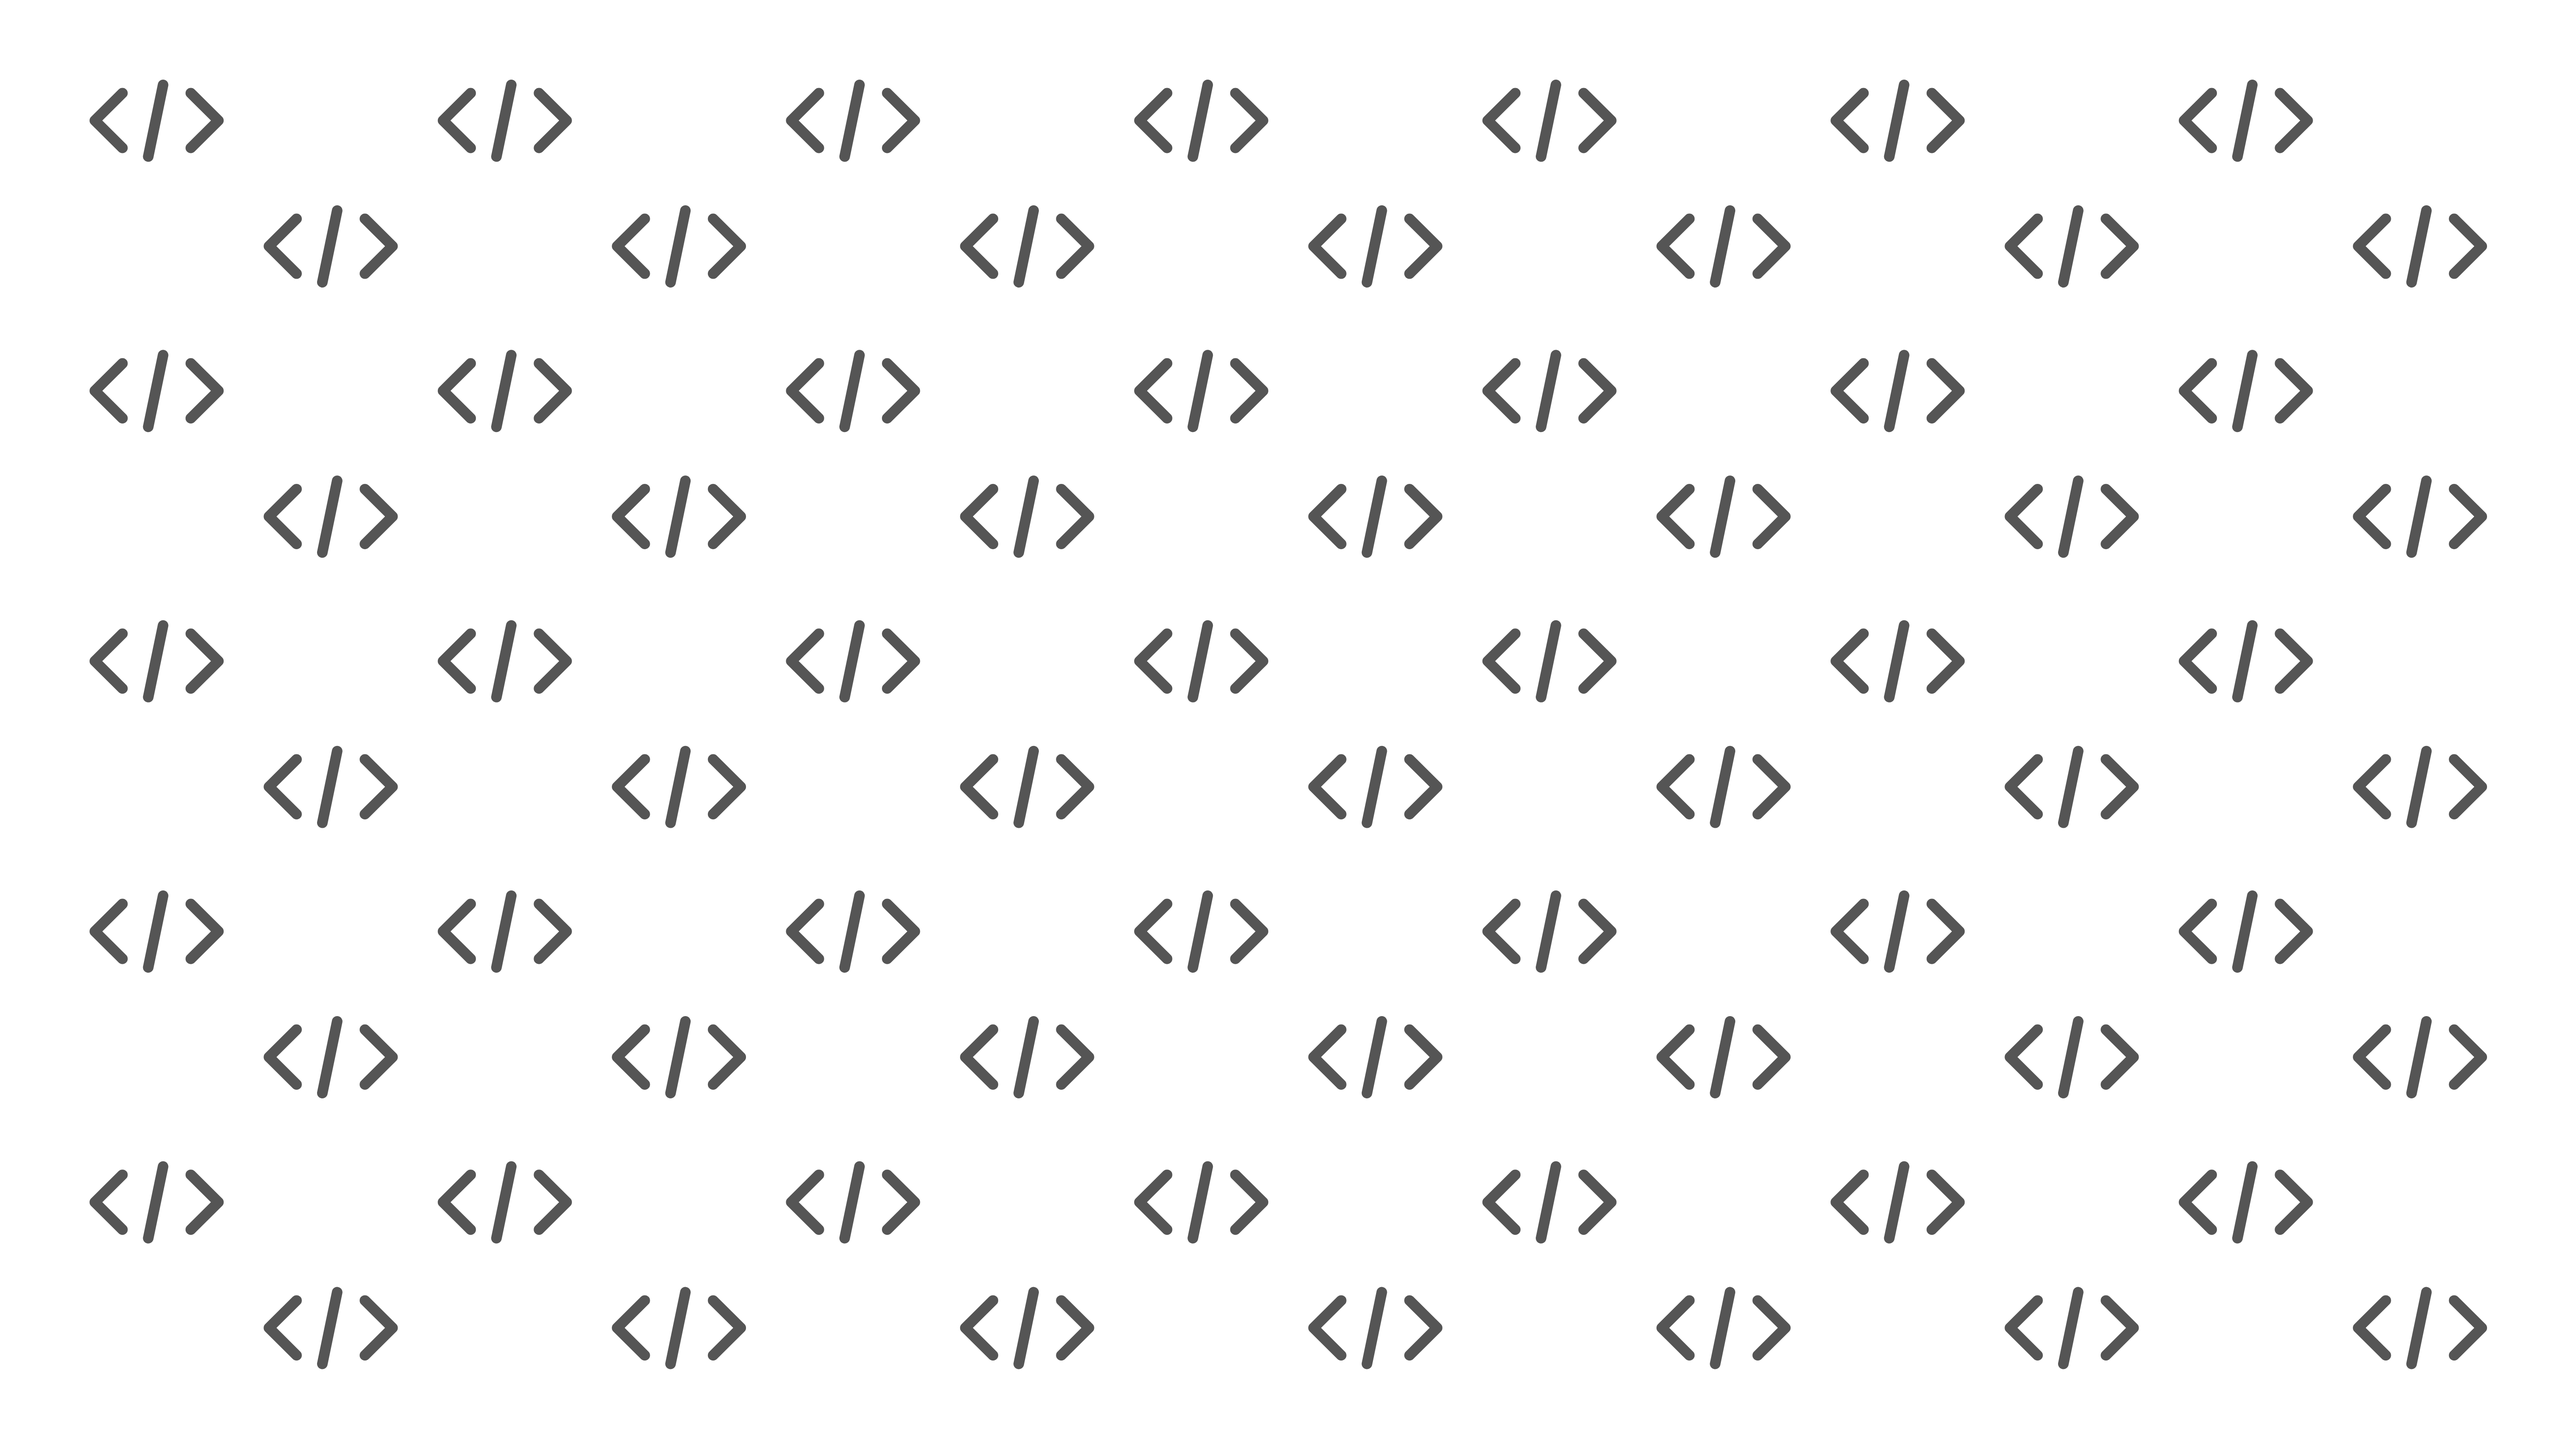
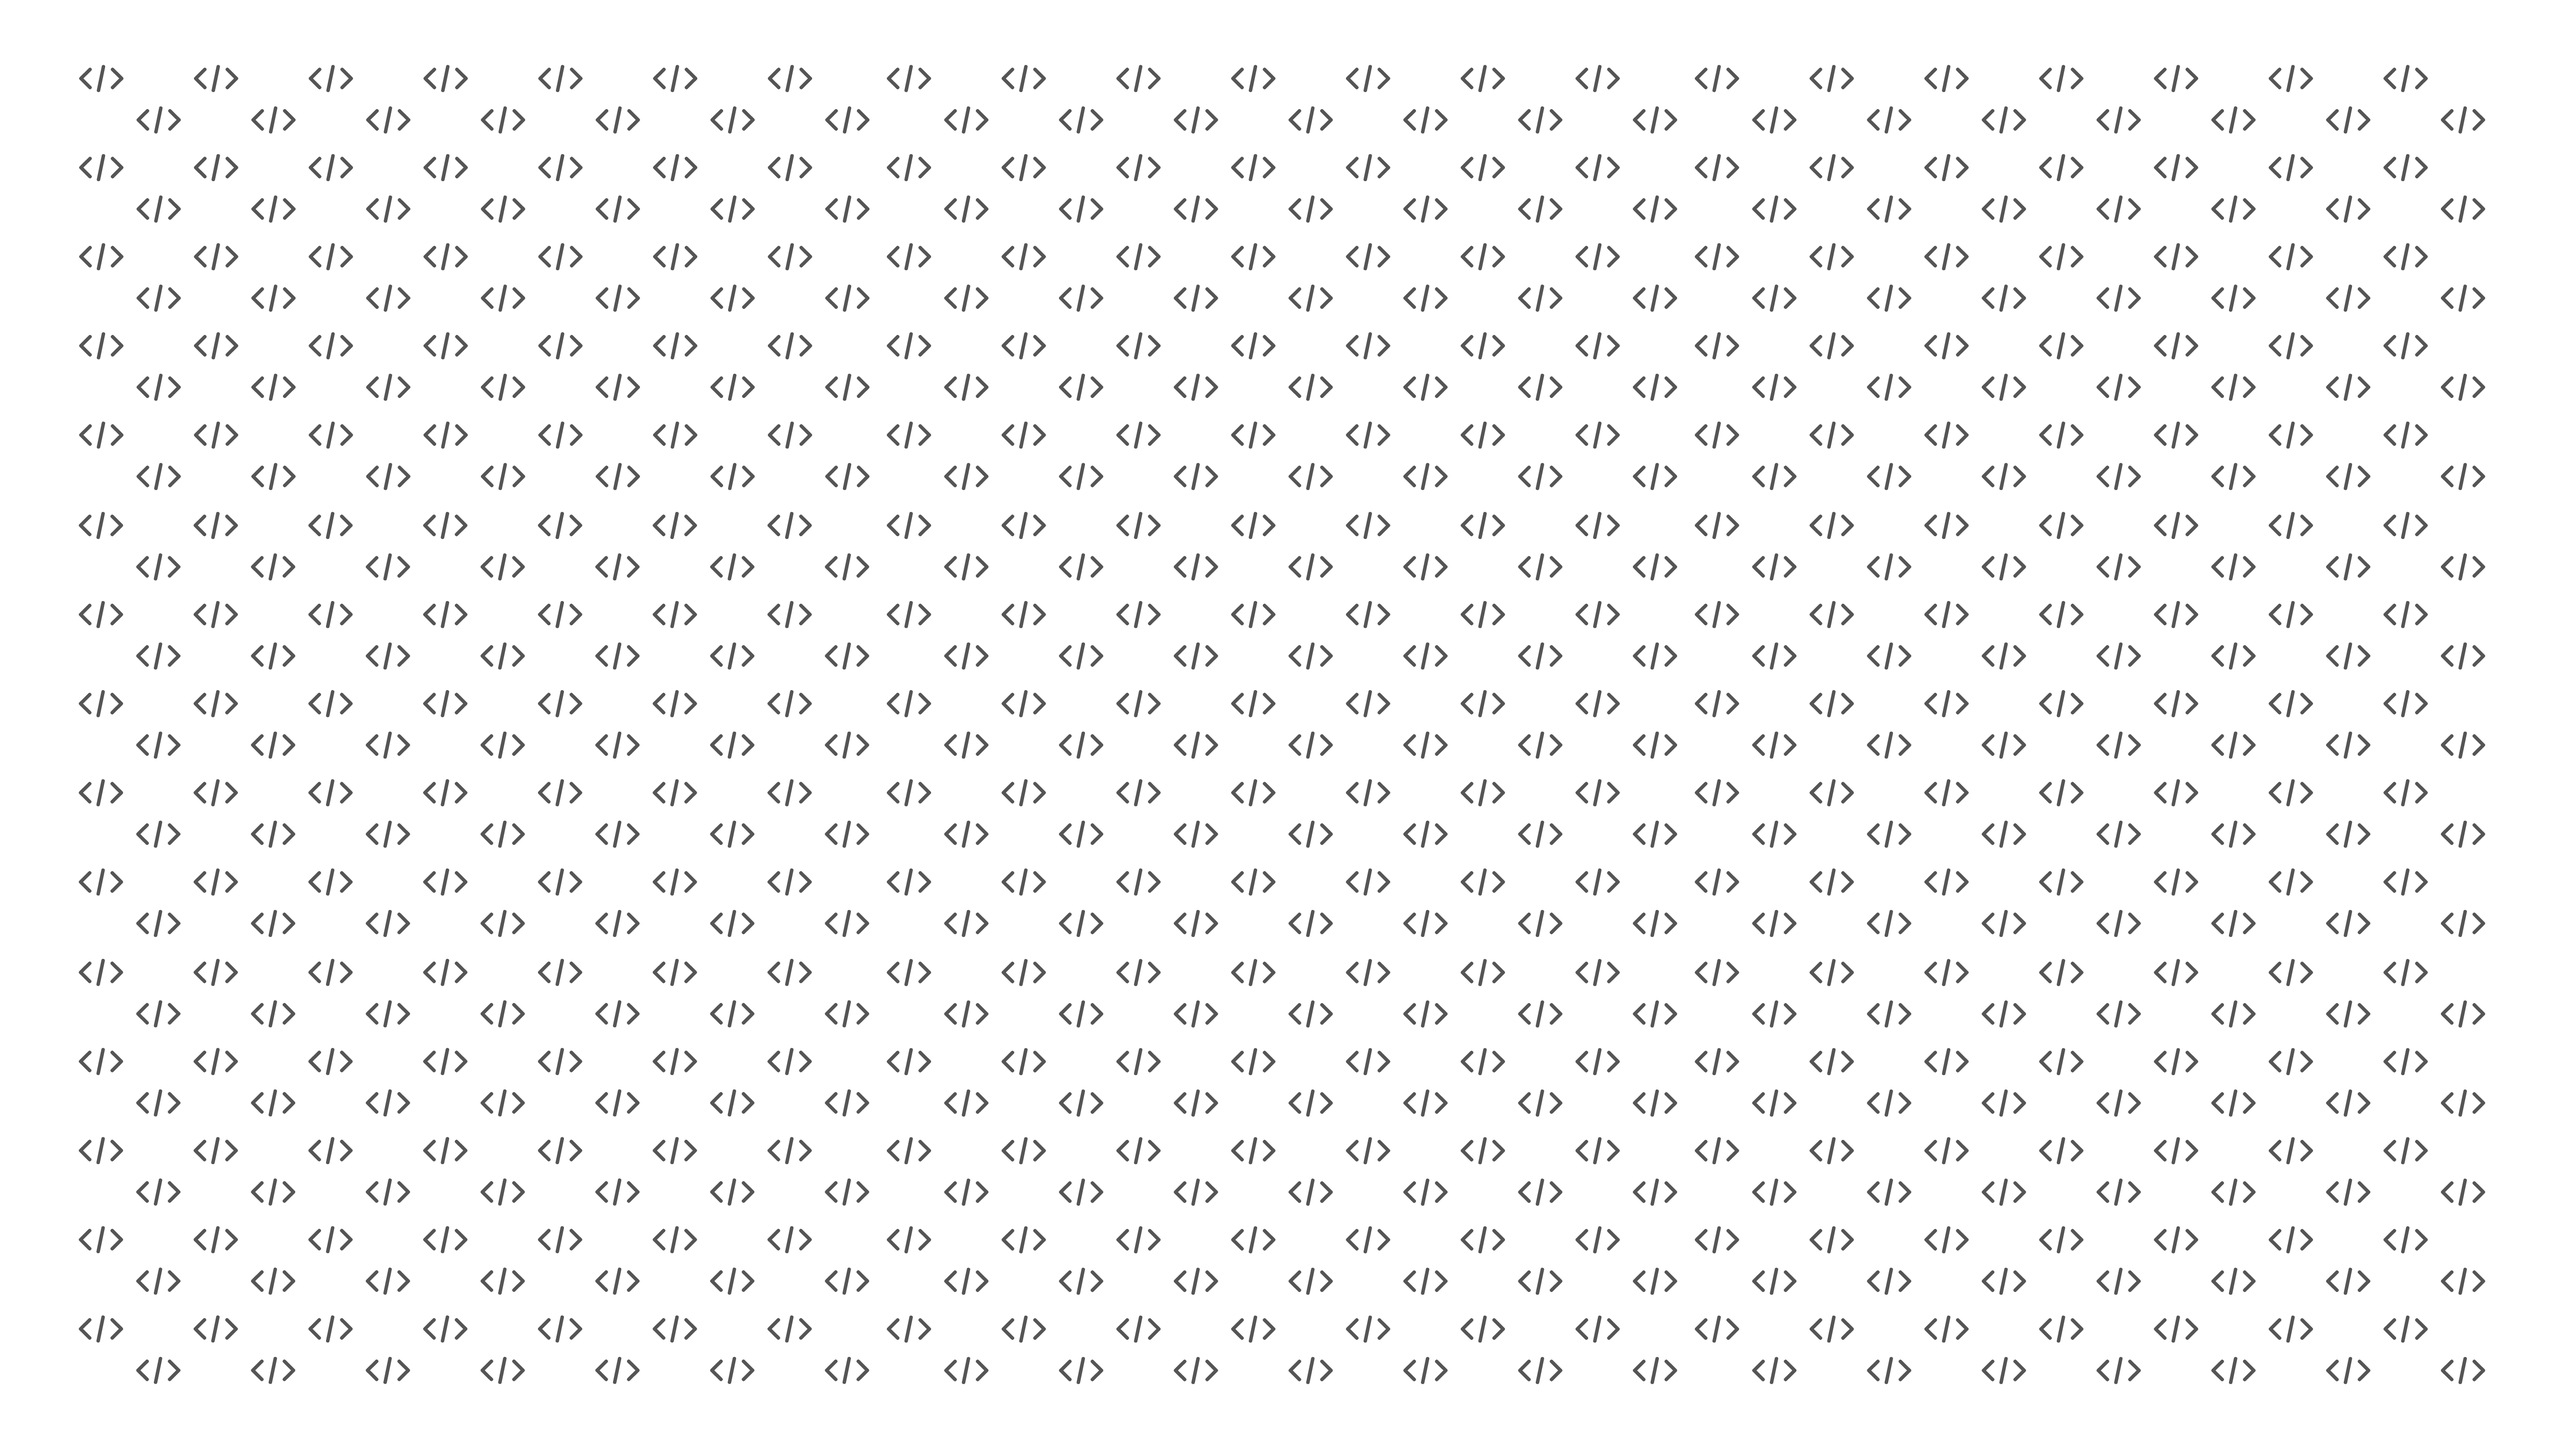
Atualizei o Background

diff --git a/Site Repositorio/index.html b/Site Repositorio/index.html
@@ -18,18 +18,18 @@
         </header>
         <article>
 
-            <h1> Git e GitHub </h1>
-            <img class="direito" src="imagens/Logo Git.png" alt="uuff">
-            <p> Neste curso eu aprendi sobre versionamento de código e sua importancia durante a historia da programação. Utilizando as ferramentas git e GitHub aprendi os fundamendos de versionamento de código...</p>
-            <p><a href="Paginas/Pagina_Git-e-GitHub.html">Clique aqui para saber mais.</a></p>
-
-        </article>
-        <article>
-
             <h1> Python </h1>
             <img class="direito" src="imagens/logo python.png" alt="">
             <p> Neste curso aprendi os fundamentos de python reforçando a lógica de programação, abordando desde o 'print(Olá Mundo!)' até estruturas um pouco mais complexas como estruturas condicionais e estruturas de repetição... </p>
             <p><a href="Paginas/Pagina_Python.html">Clique aqui para saber mais.</a></p>
+
+        </article>
+        <article>
+
+            <h1> Git e GitHub </h1>
+            <img class="direito" src="imagens/Logo Git.png" alt="uuff">
+            <p> Neste curso eu aprendi sobre versionamento de código e sua importancia durante a historia da programação. Utilizando as ferramentas git e GitHub aprendi os fundamendos de versionamento de código...</p>
+            <p><a href="Paginas/Pagina_Git-e-GitHub.html">Clique aqui para saber mais.</a></p>
 
         </article>
     </main>

diff --git a/Site Repositorio/Paginas/Pagina_Python.html b/Site Repositorio/Paginas/Pagina_Python.html
@@ -12,8 +12,11 @@
             <h1 class="pagina_git"> Python </h1>
             <img class="pagina_git" src="../imagens/logo python.png" alt="">
         </header>
-            <p class="pagina_git"> Neste curso eu aprendi sobre versionamento de código e sua importancia durante a historia da programação. Utilizando as ferramentas git e GitHub aprendi os fundamendos de versionamento de código<p>
-            <button> <a href="../index.html"><img class="botao" src="../imagens/Imagem_Botao_Voltar.png" alt=""></a> </button>
+
+        <p class="pagina_git"> Neste curso aprendi os fundamentos de python reforçando a lógica de programação, abordando desde o 'print(Olá Mundo!)' até estruturas um pouco mais complexas como estruturas condicionais e estruturas de repetição. Realizei diversos exercícios<p>       
+        <p><a href="https://github.com/MateusHenriique/Python"> Acesse meu repositorio no GitHub </a></p>
+        <button> <a href="../index.html"><img class="botao" src="../imagens/Imagem_Botao_Voltar.png" alt=""></a> </button>
+
     </main>
 </body>
 </html>

diff --git a/Site Repositorio/style.css b/Site Repositorio/style.css
@@ -7,8 +7,13 @@ body {
     background-color: rgba(116, 115, 172, 0.452);
     background-image: url(imagens/backgrownd_image.jpg);
     background-position: center ;
-    background-size: 800px;
+    background-size: 2500px;
+    height: 1000px;
 
+}
+body:hover {
+    background-position: bottom center;
+    transition: 30s;
 }
 
 main {
